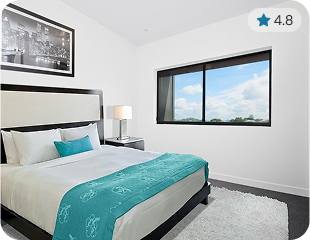
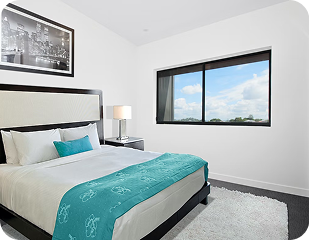
homepage-complete-

diff --git a/src/modules/home/components/BookingForm.jsx b/src/modules/home/components/BookingForm.jsx
@@ -4,9 +4,9 @@ import { Link } from "react-router-dom";
 export const BookingForm = () => {
   return (
     <div className="relative z-10 bg-white rounded-2xl shadow-lg p-5 md:p-6 flex flex-col md:flex-row items-center mx-auto mt-[-47px] space-y-4 md:space-y-0 md:space-x-4" style={{ width: '84%' }}>
-      <div className="grid grid-cols-1 sm:grid-cols-2 md:flex w-full items-center gap-4">
-        
-        <div className="flex items-center gap-2 w-full md:w-1/5 justify-center">
+      <div className="grid grid-cols-1 sm:grid-cols-2 md:grid-cols-4 w-full items-center gap-4">
+
+        <div className="flex items-center gap-2 w-full justify-center">
           <Building2 className="text-[#34A0A4]" stroke="#34A0A4" size={20} />
           <div className="flex flex-col text-center">
             <span className="text-gray-900 font-medium text-[16px]">Habitación</span>
@@ -18,7 +18,7 @@ export const BookingForm = () => {
           </div>
         </div>
 
-        <div className="flex items-center gap-2 w-full md:w-1/4 justify-center">
+        <div className="flex items-center gap-2 w-full justify-center">
           <User className="text-[#34A0A4] fill-[#34A0A4]" size={20} />
           <div className="flex flex-col text-center">
             <span className="text-gray-900 font-medium text-[16px]">Huéspedes</span>
@@ -31,7 +31,7 @@ export const BookingForm = () => {
           </div>
         </div>
 
-        <div className="flex items-center gap-2 w-full md:w-1/5 justify-center">
+        <div className="flex items-center gap-2 w-full justify-center">
           <ConciergeBell className="text-[#34A0A4] fill-[#34A0A4]" size={20} />
           <div className="flex flex-col text-center">
             <span className="text-gray-900 font-medium text-[16px]">Check-in</span>
@@ -39,7 +39,7 @@ export const BookingForm = () => {
           </div>
         </div>
 
-        <div className="flex items-center gap-2 w-full md:w-1/5 justify-center">
+        <div className="flex items-center gap-2 w-full justify-center">
           <ConciergeBell className="text-[#34A0A4] fill-[#34A0A4]" size={20} />
           <div className="flex flex-col text-center">
             <span className="text-gray-900 font-medium text-[16px]">Check-out</span>
@@ -48,7 +48,7 @@ export const BookingForm = () => {
         </div>
       </div>
 
-      <Link to="/buscar" className="bg-[#34A0A4] text-18 font-semibold text-white px-6 py-3 rounded-2xl w-full sm:w-auto md:w-1/5 flex items-center justify-center gap-2 shadow-md mt-2 md:mt-0 whitespace-nowrap font-dm-sans tracking-wide">
+      <Link to="/buscar" className="bg-[#34A0A4] text-18 font-semibold text-white px-6 py-3 rounded-2xl w-full sm:w-auto md:w-1/5 flex items-center justify-center gap-2 shadow-md mt-2 md:mt-0 whitespace-nowrap font-dm-sans tracking-wide max-w-full">
         <Search className="text-white" stroke="white" size={20} /> Reservar ahora
       </Link>
     </div>

diff --git a/src/modules/home/components/PopularRooms.jsx b/src/modules/home/components/PopularRooms.jsx
@@ -1,5 +1,6 @@
 import { Link } from "react-router-dom";
 import { rooms } from "../mock/mockRooms";  
+import { Star } from "lucide-react";  // Importa el ícono de la estrella
 
 export const PopularRooms = () => {
   return (
@@ -16,42 +17,47 @@ export const PopularRooms = () => {
           className="absolute left-2 md:left-[-24px] top-1/3 transform -translate-y-1/2 z-10 w-10 h-10 sm:w-12 sm:h-12 cursor-pointer hidden md:block"
         />
 
-       
         <div className="grid grid-cols-1 sm:grid-cols-2 md:grid-cols-3 gap-[2px] px-8 w-full">
           {rooms.map((room) => (
-            <div key={room.id} className="flex flex-col items-start p-4">
+            <div key={room.id} className="flex flex-col items-start p-4 relative">
              
+              {/* Contenedor con estrella y puntaje */}
+              <div className="absolute top-6 right-7 flex items-center justify-center p-2 bg-white/40 rounded-2xl backdrop-blur-[2px] w-[66px] h-[30px] z-10">
+                <Star 
+                  size={16} 
+                  fill="#34A0A4"  // Color de relleno de la estrella
+                  stroke="none"   // Sin borde
+                />
+                <div className="ml-1 text-[14px] text-black font-dm-sans">{room.rating}</div> {/* Puntaje en negro */}
+              </div>
+
               <img 
                 src={room.img} 
                 className="rounded-xl w-full h-auto object-cover mb-4" 
                 alt={room.name} 
               />
-
-             
+              
               <h3 className="text-[17px] font-medium font-dm-sans tracking-wide w-full mb-1">
                 {room.name}
               </h3>
 
-    
               <p className="text-[15px] text-[#858585] font-dm-sans leading-snug w-full mb-4">
                 {room.description}
               </p>
 
-              
               <div className="flex items-baseline space-x">
-  <p className="text-[27px] font-regular  text-[#1A759F] font-dm-sans tracking-tight">
-    {room.price}
-  </p>
-  <p className="text-[15px] relative top-[2px] font-normal text-[#1A759F] font-regular font-dm-sans tracking-wide">
-    {room.horario}
-  </p>
-</div>
+                <p className="text-[27px] font-regular text-[#1A759F] font-dm-sans tracking-tight">
+                  {room.price}
+                </p>
+                <p className="text-[15px] relative top-[2px] font-normal text-[#1A759F] font-regular font-dm-sans tracking-wide">
+                  {room.horario}
+                </p>
+              </div>
 
             </div>
           ))}
         </div>
 
-       
         <img 
           src="/right.png"  
           className="absolute right-2 md:right-[-24px] top-1/3 transform -translate-y-1/2 z-10 w-10 h-10 sm:w-12 sm:h-12 cursor-pointer hidden md:block"

diff --git a/src/modules/home/mock/mockRooms.js b/src/modules/home/mock/mockRooms.js
@@ -1,28 +1,29 @@
 export const rooms = [
-    {
-      id: 1,
-      img: "public/Frame 45 (2).png", 
-      description: "2 Baños",
-      name: "Wilderness Club at Big Ceddar",
-      price: "$2018",
-      horario: "/night"
-    },
-    {
-      id: 2,
-      img: "public/Frame 45 (1).png", 
-      description: "1 Baño con Jacuzzi",
-      name: "Wilderness Club at Big Ceddar",
-      price: "$2016",
-      horario: "/night"
-    },
-    {
-      id: 3,
-      img: "public/Frame 45.png", 
-      description: "Habitacion matrimonial",
-      name: "Wilderness Club at Big Ceddar",
-      price: "$1024",
-      horario: "/night"
-    },
-    
-  ];
-  
+  {
+    id: 1,
+    img: "public/Frame 45.png", 
+    description: "2 Baños",
+    name: "Wilderness Club at Big Ceddar",
+    price: "$2018",
+    horario: "/night",
+    rating: "4.8"
+  },
+  {
+    id: 2,
+    img: "public/Frame 45 (1).png", 
+    description: "1 Baño con Jacuzzi",
+    name: "Wilderness Club at Big Ceddar",
+    price: "$2016",
+    horario: "/night",
+    rating: "4.8"
+  },
+  {
+    id: 3,
+    img: "public/Frame 45 (2).png", 
+    description: "Habitación matrimonial",
+    name: "Wilderness Club at Big Ceddar",
+    price: "$1024",
+    horario: "/night",
+    rating: "4.8"
+  },
+];

diff --git a/src/modules/home/components/HeroSection.jsx b/src/modules/home/components/HeroSection.jsx
@@ -17,17 +17,14 @@ export const HeroSection = () => {
         </h1>
       </div>
 
-
-      <a className="absolute left-1/8 transform -translate-x-1/2 bottom-24 sm:bottom-16 md:bottom-24 flex items-center gap-4 sm:gap-6 ">
+      {/* Botón Ver Video */}
+      <a className="absolute bottom-24 sm:bottom-16 md:bottom-24 left-42 transform -translate-x-1/2 flex items-center gap-4 sm:gap-6 justify-center">
         <span className="text-white text-lg sm:text-xl md:text-2xl font-dm-sans tracking-wide">
           Ver video
         </span>
         <div className="relative flex items-center justify-center">
-         
           <div className="w-10 h-10 sm:w-12 sm:h-12 md:w-16 md:h-16 absolute rounded-full border border-white/20 animate-ping cursor-pointer "></div>
           <div className="w-8 h-8 sm:w-10 sm:h-10 md:w-12 md:h-12 absolute rounded-full border border-white/30 animate-pulse cursor-pointer"></div>
-          
-          
           <div className="w-6 h-6 sm:w-8 sm:h-8 md:w-10 md:h-10 p-2 bg-white/10 rounded-full outline outline-1 outline-offset-[-1px] cursor-pointer outline-white/60 flex items-center justify-center">
             <img src="public/play_arrow.png" alt="Play Icon" className="w-6 h-6" />
           </div>

diff --git a/src/modules/home/components/NavBar.jsx b/src/modules/home/components/NavBar.jsx
@@ -7,7 +7,7 @@ export const Navbar = () => {
 
   return (
     <header className="absolute top-0 left-0 w-full bg-transparent font-dm-sans tracking-wide z-50 px-4 sm:px-6 md:px-10 lg:px-20">
-      <div className="max-w-[1440px] mx-auto flex items-center justify-between h-[80px] py-2">
+      <div className="w-full flex items-center justify-between h-[80px] py-2">
         {/* Logo */}
         <h1 className="text-white text-2xl sm:text-3xl lg:text-4xl ml-6 font-regular font-['Belleza']">
           NameHotel

diff --git a/src/modules/home/components/Testimonials.jsx b/src/modules/home/components/Testimonials.jsx
@@ -62,3 +62,5 @@ export const Testimonials = () => {
     </section>
   );
 };
+
+
